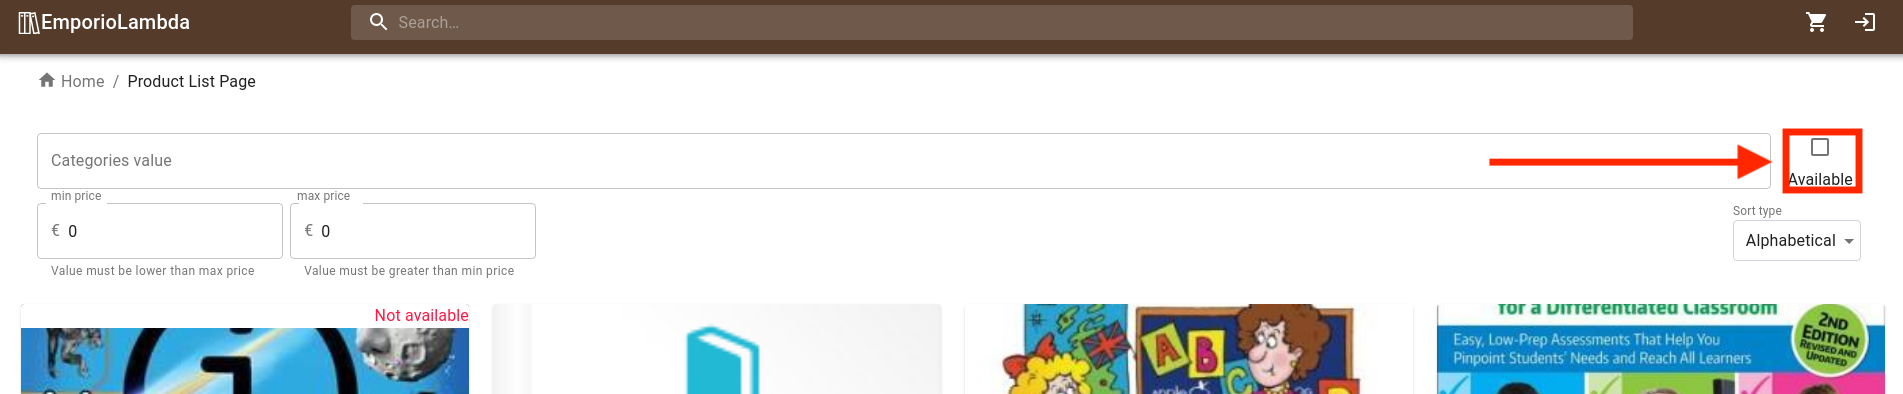
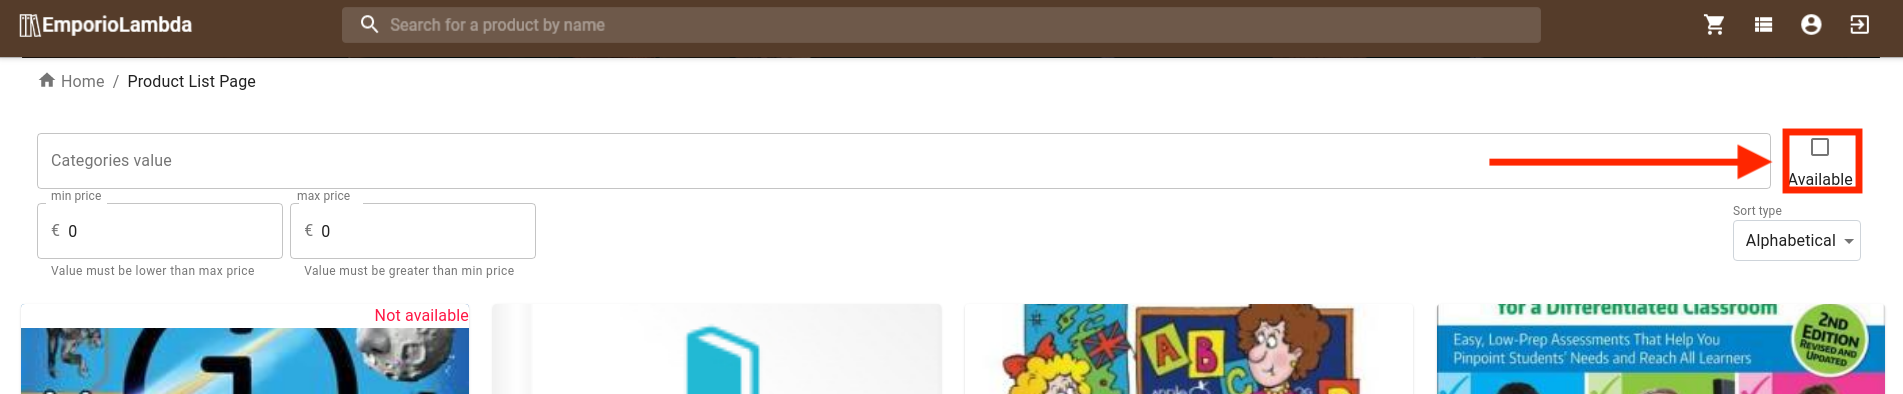
Aggiornato MU

Changed region(s): [[0.0, 0.0, 1.0, 0.1523], [0.0, 0.0305, 0.124, 0.0914], [0.8991, 0.0305, 0.9921, 0.0914]]

diff --git a/DocumentiPubblici/Manuali/ManualeUtente/Sezioni/Acquirente.tex b/DocumentiPubblici/Manuali/ManualeUtente/Sezioni/Acquirente.tex
@@ -1,40 +1,34 @@
 \section{Accesso alla piattaforma}\label{Accesso}
-All'accesso della piattaforma l'utente visualizza la schermata principale contenente:
+L'utente di \NomeProgetto\ può accedere alla piattaforma sia attraverso un computer sia tramite telefono cellulare. All'accesso della piattaforma l'utente visualizza la schermata principale contenente:
 \begin{enumerate}
 	\item Descrizione dell'azienda;
 	\item Prodotti in evidenza;
 	\item Barra per la ricerca dei prodotti;
-	\item \glo{Icona} del menù.
+	\item \glo{Icona} del carrello e per procedere alla login.
 \end{enumerate} 
-\begin{figure}[H]
-	\centering
-	\includegraphics[scale=0.4]{Immagini/Acquirente/home_primo_accesso.png}
-	\caption{Schermata principale}
-	\label{fig:Home}
-\end{figure}
-Cliccando sull'icona del menù (4) appariranno due icone cliccabili dall'utente per poter visualizzare il proprio carrello o effettuare il login/registrazione.
-\begin{figure}[H]
-	\centering
-	\includegraphics[scale=0.4]{Immagini/Acquirente/home-mobile-open.customer.png}
-	\caption{Schermata principale con menù a tendina}
-	\label{fig:Homeicone}
-\end{figure}
+Selezionando l'icona della login si può procedere all'autenticazione o registrazione.
 \begin{figure}[h!]
+	\centering
 	\includegraphics[scale=0.7]{Immagini/Acquirente/login.png}\quad
 	\includegraphics[scale=0.6]{Immagini/Acquirente/createAccount.png}
 \end{figure}
 \newpage
 \section{Acquirente}\label{Acquirente}
-La schermata principale visualizzata comprende nuovamente descrizione dell'azienda, prodotti in evidenza e:
-\begin{enumerate}
-	\item \glo{Icona} per accedere al carrello;
-	\item Icona per effettuare il logout.
-\end{enumerate} 
-\begin{figure}[H]
+In seguito all'autenticazione, la schermata visualizzata comprenderà nuovamente le informazioni precedentemente indicate ma saranno visualizzate anche due nuove icone per accedere alla schermata della gestione degli ordini e per accedere alla schermata di gestione delle proprie informazioni personali. 
+\begin{figure}[h!]
 	\centering
-	\includegraphics[scale=0.25]{Immagini/Acquirente/home.customer.png}
-	\caption{Schermata principale utente autenticato}
-	\label{fig:Homecustomer}
+	\includegraphics[scale=0.4]{Immagini/Acquirente/Home.png}
+	\caption{Schermata principale computer}
+	\label{fig:HomePC}
+\end{figure}
+\newpage
+Per visualizzare le icone nella versione mobile occorre cliccare l'icona con i tre puntini.
+\begin{figure}[h!]
+	\centering
+	\includegraphics[scale=0.5]{Immagini/Acquirente/Home Mobile WithoutMenu.png} \quad
+	\includegraphics[scale=0.5]{Immagini/Acquirente/Home Mobile with Menu.png}
+	\caption{Schermata principale mobile}
+	\label{fig:HomeMobile}
 \end{figure}
 \subsection{Visualizzazione specifiche di un prodotto}
 L'acquirente, autenticato sulla piattaforma o come ospite, può visualizzare le specifiche di un prodotto in evidenza cliccando sullo stesso. La schermata alla quale sarà indirizzato comprenderà:
@@ -113,7 +107,7 @@ Premendo sull'icona del carrello presente in ogni schermata è possibile per l'u
 \end{enumerate} 
 \begin{figure}[H]
 	\centering
-	\includegraphics[scale=0.25]{Immagini/Acquirente/Cart.JPG}
+	\includegraphics[scale=0.4]{Immagini/Acquirente/cart.customer.png}
 	\caption{Carrello}
 	\label{fig:Carrello}
 \end{figure}
@@ -195,4 +189,42 @@ Per procedere con il pagamento è necessario cliccare sull'apposito bottone, l'u
 	\includegraphics[scale=0.25]{Immagini/Acquirente/payment.checkout.png}
 	\caption{Schermata di riepilogo prima del checkout con icona per procedere con il pagamento}
 	\label{fig:CartCheckout}
+\end{figure}
+\newpage
+\subsection{Visualizzazione ordini}\label{ordiniAcq}
+L'acquirente può accedere alla schermata in cui visualizzare tutti gli ordini effettuati selezionando la seconda icona in alto presente in ogni schermata.
+\begin{figure}[H]
+	\centering
+	\includegraphics[scale=0.3]{Immagini/Acquirente/orders.png}
+	\caption{Schermata di riepilogo ordini}
+	\label{fig:Ordini}
+\end{figure}
+In questa schermata l'acquirente può filtrare gli ordini inserendo data di inizio e fine entro le quali si devono trovare gli ordini ricercati.
+\begin{figure}[H]
+	\centering
+	\includegraphics[scale=0.3]{Immagini/Acquirente/orders with date filters.png}
+	\caption{Schermata filtro ordini effettuati dentro una data di inizio e di fine}
+	\label{fig:OrdiniData}
+\end{figure}
+Oppure cercare un preciso ordine inserendo il numero identificativo.
+\begin{figure}[H]
+	\centering
+	\includegraphics[scale=0.3]{Immagini/Acquirente/orders with search.png}
+	\caption{Schermata ricerca ordine}
+	\label{fig:OrdiniNumero}
+\end{figure}
+\section{Gestione account}\label{ModificaProf}
+L'acquirente può accedere le proprie informazioni personali accedendo alla schermata apposita selezionando l'icona con l'utente da qualsiasi punto della piattaforma.
+\begin{figure}[H]
+	\centering
+	\includegraphics[scale=0.3]{Immagini/Acquirente/Personal Area.png}
+	\caption{Schermata account}
+	\label{fig:Account}
+\end{figure}
+Da qui è possibile eliminare l'account o procedere con la modifica delle informazioni selezionando l'icona a forma di penna.
+\begin{figure}[H]
+	\centering
+	\includegraphics[scale=0.3]{Immagini/Acquirente/Change Password.png}
+	\caption{Schermata modifica account}
+	\label{fig:ModificaAccount}
 \end{figure}

diff --git a/DocumentiPubblici/Manuali/ManualeUtente/Sezioni/FunzioniProdotto.tex b/DocumentiPubblici/Manuali/ManualeUtente/Sezioni/FunzioniProdotto.tex
@@ -1,6 +1,6 @@
 \section{Funzionalità della piattaforma}
 \NomeProgetto\ permette all'utente di usufruire delle funzionalità principali che un \glo{e-commerce} deve presentare. Di seguito viene approfondito ciò che l'utente, acquirente o venditore, può fare all'interno della piattaforma.
-\subsection{Funzionalità acquirente}
+\subsection{Funzionalità acquirente}\label{FunzionalitàAcq}
 \subsubsection*{Registrazione}
 All'interno di \NomeProgetto\ l'utente può innanzitutto registrarsi sulla piattaforma con le proprie credenziali. La registrazione permette all'utente di accedere al proprio account personale in un momento successivo in cui poter visualizzare tutti gli ordini effettuati, oltre a poter modificare le proprie informazioni personali. 
 \subsubsection*{Ricerca di un prodotto}
@@ -21,7 +21,7 @@ Per ogni prodotto è ovviamente possibile accedere alla pagina descrittiva dello
 I prodotti di interesse per l'utente possono essere inseriti all'interno del carrello e da qui è possibile procedere con l'acquisto degli stessi. All'interno del carrello l'acquirente visualizza un riepilogo dei prodotti inseriti e può inserire un nuovo indirizzo di spedizione o selezionare uno degli indirizzi di spedizione salvati precedentemente, oltre a poter modificare o eliminare gli stessi. 
 \subsubsection*{Pagamento}
 Per il pagamento dei prodotti del carrello, l'acquirente non deve inserire all'interno della piattaforma nessun dato sensibile relativo ai metodi di pagamento messi a disposizione. L'effettivo processo di pagamento viene completamente gestito tramite un servizio di terze parti specializzato nei pagamenti online che garantisce all'utente la sicurezza degli stessi.
-\subsection{Funzionalità venditore}
+\subsection{Funzionalità venditore}\label{FunzionalitàVend}
 \subsubsection*{Gestione dei prodotti}
 Il venditore registrato alla piattaforma può inserire tutti i suoi prodotti con le loro caratteristiche, con la possibilità di scegliere quali prodotti mettere in evidenza nella schermata principale dell'acquirente. I prodotti inseriti possono essere gestiti dall'utente, sarà infatti possibile modificare o eliminare prodotti inseriti precedentemente. Nella piattaforma \NomeProgetto\ il venditore ha la possibilità di gestire le categorie alle quali vengono assegnati i prodotti, creando nuove categorie, modificando o eliminando categorie esistenti. Anche il venditore può visualizzare l'elenco di tutti i prodotti presenti con la possibilità di visualizzare solo i prodotti inseriti in evidenza.
 \subsubsection*{Gestione degli ordini}

diff --git a/DocumentiPubblici/Manuali/ManualeUtente/Sezioni/Venditore.tex b/DocumentiPubblici/Manuali/ManualeUtente/Sezioni/Venditore.tex
@@ -81,3 +81,27 @@ Per procedere con la modifica di un prodotto, l'utente, dopo aver aperto la sche
 	\caption{Schermata di modifica prodotto}
 	\label{fig:ModificaProdotto}
 \end{figure}
+\subsection{Gestione delle categorie}\label{categorie}
+All'interno di \NomeProgetto\ il venditore può gestire le categorie alle quali assegnare i prodotti, da qualunque punto all'interno della piattaforma può passare alla schermata per la gestione delle categorie cliccando il bottone apposito.
+\begin{figure}[H]
+	\centering
+	\includegraphics[scale=0.4]{Immagini/Venditore/categories.png}
+	\caption{Schermata di gestione categorie}
+	\label{fig:GestioneCategorie}
+\end{figure}
+\subsection{Aggiunta nuova categoria}
+Dalla pagina di gestione delle categorie è possibile per il venditore aggiungere una nuova categoria.
+\begin{figure}[H]
+	\centering
+	\includegraphics[scale=0.35]{Immagini/Venditore/Add Category.png}
+	\caption{Schermata di aggiunta categoria}
+	\label{fig:AggiuntaCategoria}
+\end{figure}
+\subsection{Modifica di una categoria}
+Oltre all'aggiunta ed eliminazione il venditore può modificare una categoria già esiste inserita precedentemente, le modifiche si rifletteranno nell'intera piattaforma.
+\begin{figure}[H]
+	\centering
+	\includegraphics[scale=0.35]{Immagini/Venditore/edit Category.png}
+	\caption{Schermata di modifica categoria}
+	\label{fig:ModificaCategoria}
+\end{figure}

diff --git a/DocumentiPubblici/Manuali/ManualeUtente/Sezioni/RegistroModifiche.tex b/DocumentiPubblici/Manuali/ManualeUtente/Sezioni/RegistroModifiche.tex
@@ -1,6 +1,12 @@
 \registroModifiche{
 	
-	1.1 & 2021\_05\_15 & \TG{} & Programmatore & \VD{} & Redazione \S\ref{Malfunzionamenti}, \S\ref{FunzionalitàAcq} e \S\ref{FunzionalitàVend}.\\
+	1.4 & 2021\_05\_16 & \TL{} & Programmatore & \VD{} & Redazione \S\ref{ordiniAcq} e \S\ref{ModificaProf}.\\
+	
+	1.3 & 2021\_05\_15 & \TL{} & Programmatore & \FF{} & Redazione \S\ref{Malfunzionamenti}, \S\ref{FunzionalitàAcq} e \S\ref{FunzionalitàVend}.\\
+	
+	1.2 & 2021\_05\_11 & \PC{} & Programmatore & \BL{} & Redazione \S\ref{categorie}.\\
+	
+	1.1 & 2021\_05\_10 & \TG{} & Programmatore & \VD{} & Aggiornata \S\ref{Accesso}, introduzione \S\ref{Acquirente} e corretto header di tutte le schermate.\\
 	
 	1.0 & 2021\_04\_29 & \VD{} & Responsabile & - & Approvazione del documento. \\
 	

diff --git a/DocumentiPubblici/Manuali/ManualeUtente/Sezioni/Requisiti.tex b/DocumentiPubblici/Manuali/ManualeUtente/Sezioni/Requisiti.tex
@@ -7,7 +7,7 @@ Di seguito sono riportati i browser che supportano la piattaforma.
 	\item \textbf{Google Chrome:} versione per desktop 88.0.4324.182 e successive, versione mobile 88.0.4324.181 e successive;
 	\item \textbf{Safari:} versione per desktop 14.0.2 e successive, versione mobile 14.4 e successive.
 \end{itemize}
-\section{Segnalazione malfunzionamenti}
+\section{Segnalazione malfunzionamenti}\label{Malfunzionamenti}
 Nel caso si riscontrassero malfunzionamenti o problemi nell'utilizzo della piattaforma, preghiamo di segnalare le problematiche riscontrate inviando un'email al seguente indirizzo:
 \begin{center}
 	\href{mailto:\Mail}{\Mail}

diff --git a/DocumentiPubblici/Manuali/ManualeUtente/Sezioni/Comandi.tex b/DocumentiPubblici/Manuali/ManualeUtente/Sezioni/Comandi.tex
@@ -1,10 +1,10 @@
 \newcommand{\Titolo}{\textit{Manuale utente}}
 
-\newcommand{\Redattori}{\MM \newline \PC \newline\TG}
+\newcommand{\Redattori}{\TG \newline \PC \newline\TL}
 
-\newcommand{\Verificatori}{\TL}
+\newcommand{\Verificatori}{\FF \newline \BL \newline \VD}
 
-\newcommand{\Approvatore}{\VD}
+\newcommand{\Approvatore}{\PC}
 
 \newcommand{\Distribuzione}{\Proponente \newline \VT \newline \CR \newline Gruppo \Gruppo}
 
